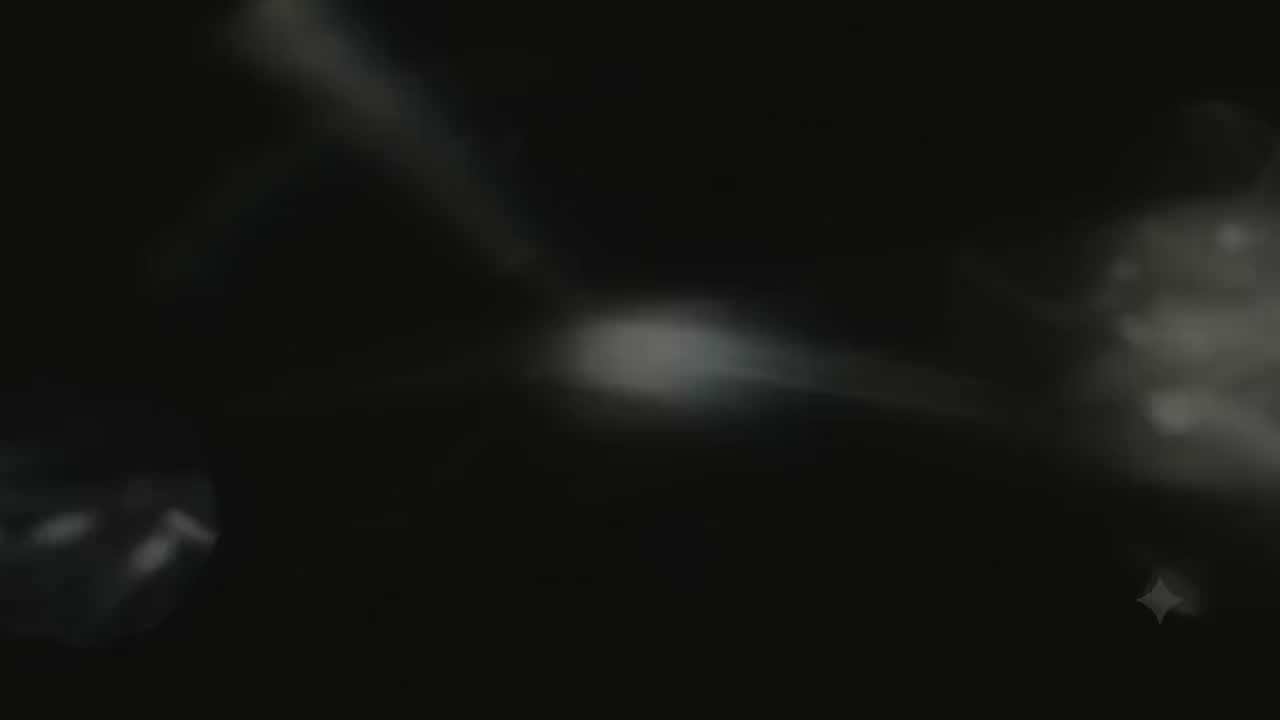
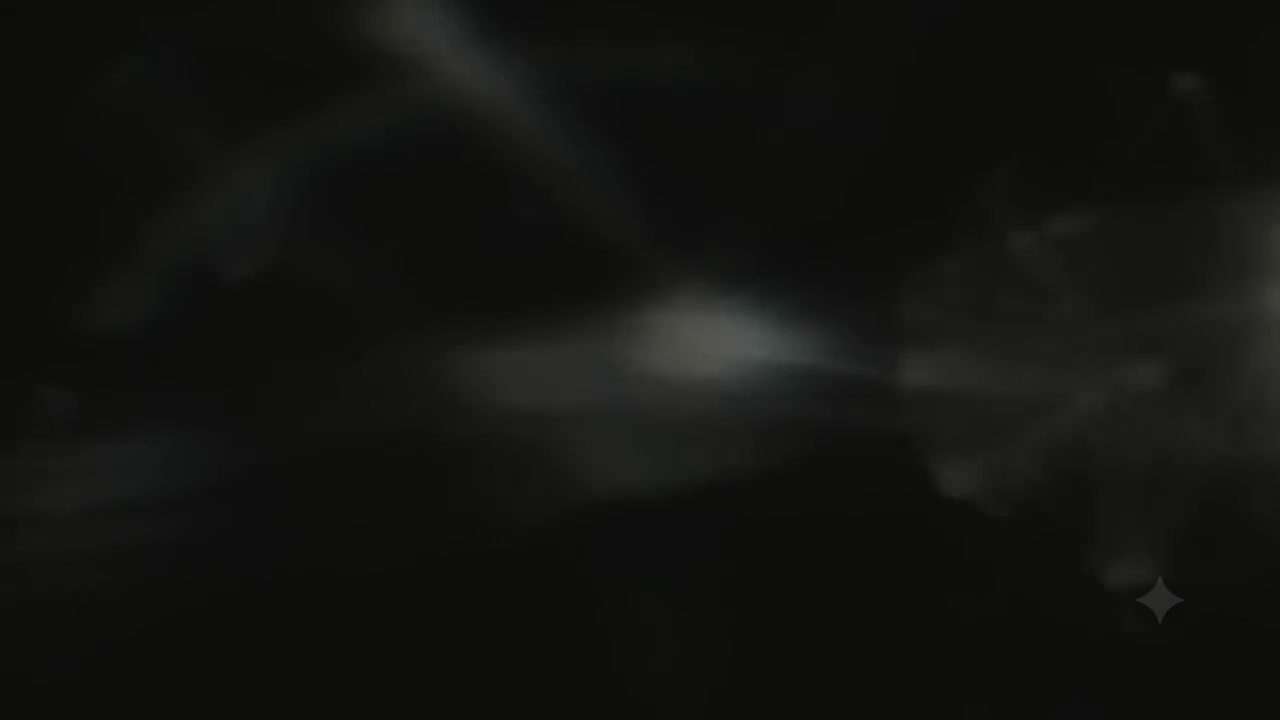
На чёрных полосах статичный кадр вместо видео: цитата и пресс-центр

diff --git a/index.html b/index.html
@@ -392,7 +392,8 @@ body.bar-off .topbar{display:none}
   .about-photo{order:-1;aspect-ratio:2668/4000;transform:none!important}
 }
 /* ---------- ПРЕСС-ЦЕНТР: тёмная полоса с радужным преломлением ---------- */
-.press{position:relative;isolation:isolate;overflow:hidden;color:#fff;padding:104px 0;background:#0A0908}
+.press{position:relative;isolation:isolate;overflow:hidden;color:#fff;padding:104px 0;
+  background:#0A0908 url('assets/back-black.jpg') center/cover no-repeat}
 /* цвет живёт слева, у портрета; справа, под текстом, притемняем до читаемости */
 .press::before{content:"";position:absolute;inset:0;z-index:0;pointer-events:none;
   background:linear-gradient(258deg,rgba(10,9,8,.12) 0%,rgba(10,9,8,.22) 30%,
@@ -610,7 +611,8 @@ body.bar-off .topbar{display:none}
   .sp-foot{margin-top:40px}
 }
 /* Цитата отдельной полосой: чёрная подложка с радужным преломлением */
-.quote{position:relative;isolation:isolate;overflow:hidden;padding:132px 0 138px;background:#0A0908}
+.quote{position:relative;isolation:isolate;overflow:hidden;padding:132px 0 138px;
+  background:#0A0908 url('assets/back-black.jpg') center/cover no-repeat}
 /* приглушаем блик за текстом и подбираем края к соседним светлым блокам */
 .quote::before{content:"";position:absolute;inset:0;z-index:0;pointer-events:none;
   background:linear-gradient(180deg,rgba(10,9,8,.46) 0%,rgba(10,9,8,.26) 30%,
@@ -919,7 +921,6 @@ body.bar-off .topbar{display:none}
 
 <!-- ЦИТАТА: чёрная полоса с преломлением -->
 <section class="quote">
-  <video class="bg-vid" src="assets/back-black.mp4" poster="assets/back-black.jpg" muted loop playsinline preload="none" aria-hidden="true" tabindex="-1"></video>
   <div class="quote-wrap">
     <p class="quote-t"><em>«Я&nbsp;так больше не&nbsp;хочу»</em>&nbsp;— фраза, с&nbsp;которой начинаются перемены</p>
   </div>
@@ -1087,7 +1088,6 @@ body.bar-off .topbar{display:none}
 </section>
 
 <section class="press" id="press">
-  <video class="bg-vid" src="assets/back-black.mp4" poster="assets/back-black.jpg" muted loop playsinline preload="none" aria-hidden="true" tabindex="-1"></video>
   <div class="press-wrap">
     <div class="press-body">
       <p class="press-eyebrow t-eyebrow">Пресс-центр</p>
